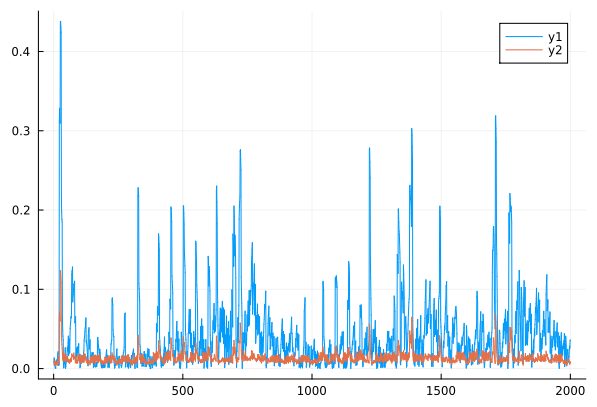
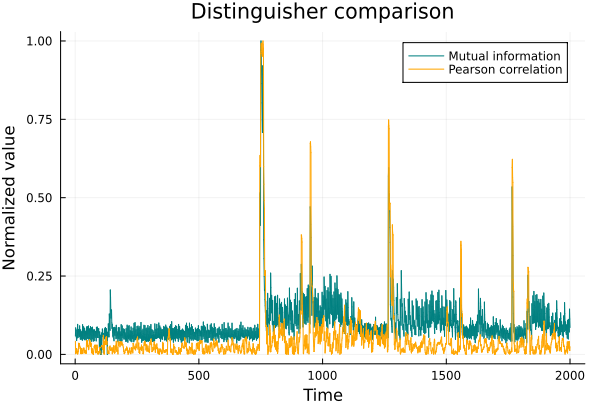
Adding analysis HW and graphs modification in report

Changed region(s): [[0.0, 0.0296, 1.0, 1.0], [0.6712, 0.0296, 0.9763, 0.2074], [0.3051, 0.0, 0.7627, 0.0593]]

diff --git a/Rapport/rapport.tex b/Rapport/rapport.tex
@@ -193,8 +193,8 @@
 	
 	\begin{figure}[h]
 		\centering
-		\includegraphics[scale=0.3]{horizontal_one_byte}
-		\caption{Graph of the mutual information between the power consumption and the Hamming weight of the first byte of $S_4$ in blue and its value in orange, as a function of time}
+		\includegraphics[scale=0.4]{horizontal_one_byte}
+		\caption{Mutual information between the power consumption and the Hamming weight or the value of the first byte of $S_4$}
 		\label{hHW&val}
 	\end{figure}
 	
@@ -202,15 +202,15 @@
 	
 	\begin{figure}[h]
 		\centering
-		\includegraphics[scale=0.3]{hHW_8_bytes_zoom}
-		\caption{Mutual information between power consumption and Hamming weight of each of the 8 bytes as functions of time}
+		\includegraphics[scale=0.4]{hHW_8_bytes_zoom}
+		\caption{Mutual information between power consumption and Hamming weight of each of the 8 bytes}
 		\label{hHW8_zoom}
 	\end{figure}
 	
 	\begin{figure}[h]
 		\centering
-		\includegraphics[scale=0.3]{comp_ref_hHW}
-		\caption{Mutual information between power consumption and horizontal Hamming Weight on the reference implementation in blue and on our own in orange}
+		\includegraphics[scale=0.4]{comp_ref_hHW}
+		\caption{Mutual information between power consumption and horizontal Hamming Weight on the reference implementation and on our own}
 		\label{compref}
 	\end{figure}
 	
@@ -218,8 +218,8 @@
 	
 	\begin{figure}[H]
 		\centering
-		\includegraphics[scale=0.3]{corr_vs_MI_hHW}
-		\caption{Mutual information (in orange) and absolute Pearson correlation (in blue) for a horizontal attack on the reference implementation}
+		\includegraphics[scale=0.4]{corr_vs_MI_hHW}
+		\caption{Normalized mutual information and absolute Pearson correlation for a horizontal attack on the reference implementation}
 		\label{corvsMI}
 	\end{figure}
 	
@@ -230,26 +230,26 @@
 	
 	\begin{figure}[h]
 		\centering
-		\includegraphics[scale=0.3]{vertical_one_bit}
-		\caption{Mutual information between power consumption and Hamming weight of the concatenation of the first bit of each of the word of $S$ in orange and its value in blue}
+		\includegraphics[scale=0.4]{vertical_one_bit}
+		\caption{Mutual information between power consumption and Hamming weight of the concatenation of the first bit of each of the word of $S$ and its value}
 		\label{vHW}
 	\end{figure}
 	
-	\begin{figure}[h]
-		\centering
-		\includegraphics[scale=0.3]{vertical_one_byte}
-		\caption{Same thing as \ref{vHW} but for random nonces ith Hamming weight in blue and value in orange}
-		\label{vHW&val}
-	\end{figure}
+	%		\begin{figure}[h]
+		%			\centering
+		%			\includegraphics[scale=0.3]{vertical_one_byte}
+		%			\caption{Same thing as \ref{vHW} but for random nonces ith Hamming weight in blue and value in orange}
+		%			\label{vHW&val}
+		%		\end{figure}
 	
-	From the graph \ref{vHW}, it seems that there are also vertical leaks, which are clearer in Hamming weight than in value. Furthermore, the graph \ref{vHW&val} also illustrates the leaks, which are obviously more noisy with variable nonces.
+	From the graph \ref{vHW}, it seems that there are also vertical leaks, which are clearer in Hamming weight than in value. Furthermore, studying variable nonces also illustrates the leaks, which are however logically more noisy with variable nonces.
 	
 	Finally, let's compare horizontal and vertical leaks with graph \ref{hvval}. Counterintuitively, horizontal and vertical points of interest seem to coincide, which refutes the hypothesis that there first is a leak because of the computation then a next one because of writing in the register. A possible explanation would be that the mutual information is induced by the value of the bit that is both there horizontally and vertically, which could explain why correlations and mutual information are so low. However the vertical leaks seem to be clearer, which seems to indicate that the computation leaks a lot, and it gives the attacker a clearer theoretical attack path. Furthermore, the chosen distinguisher for the following analysis will be the mutual information, which looks slightly clearer.
 	
 	\begin{figure}[h]
 		\centering
-		\includegraphics[scale=0.3]{h_and_v_one_byte}
-		\caption{Mutual information for the horizontal value in orange and the vertical value in blue}
+		\includegraphics[scale=0.4]{h_and_v_one_byte}
+		\caption{Normalized mutual information for the horizontal and vertical Hamming weight}
 		\label{hvval}
 	\end{figure}
 	
@@ -321,15 +321,15 @@
 	
 	\begin{figure}[h]
 		\centering
-		\includegraphics[scale=0.3]{nonces_half_fixed}
-		\caption{Mutual information between the Hamming weight of the outputs and the power consumption, for each of the possible outputs for the first nonce with half of its bits fixed to use the equations}
+		\includegraphics[scale=0.4]{nonces_half_fixed}
+		\caption{Mutual information between the Hamming weight of the outputs (associated key in the legend) and the power consumption, for each of the possible outputs for the first nonce with half of its bits fixed to use the equations}
 		\label{half_fixed}
 	\end{figure}
 	
 	\begin{figure}[h]
 		\centering
-		\includegraphics[scale=0.3]{nonces_alea}
-		\caption{Mutual information between the Hamming weight of the outputs and the power consumption, for each of the possible outputs for the first nonce with all its bits random}
+		\includegraphics[scale=0.4]{nonces_alea}
+		\caption{Mutual information between the Hamming weight of the outputs and the power consumption, for each of the possible outputs (with the associated key in the legend) for the first nonce with all its bits random}
 		\label{all_alea}
 	\end{figure}
 	

diff --git a/Rapport/journaldebord.tex b/Rapport/journaldebord.tex
@@ -46,13 +46,15 @@
 		\item[\done] Implémentation d'une attaque CPA classique verticale
 		\item[\done] Modifier ces 2 attaques précédentes pour qu'elles suivent les articles lus
 		\item Corriger les attaques supposées fonctionner
-		\item Regarder si l'attaque qui ne fonctionne pas ne fonctionnerait quand-même pas un peu
+		\item[\done] Regarder si l'attaque qui ne fonctionne pas ne fonctionnerait quand-même pas un peu
 		\item[\done] Comparer les fuites verticales et horizontales pour déterminer ce qui fuit le plus dans une S-Box
 		\item[\done] Refaire ces attaques sur l'implémentation de référence pour comparer les différences de fuite par rapport aux différences d'implémentation
 		\item[\done] Réfléchir à un nouveau chemin d'attaque pour les équations de Modou, suivant les équations et ce qui fuite bien
-		\item Réaliser ce chemin d'attaque
-		\item Rédaction du rapport
-		\item Préparation de la présentation
+		\item[\done] Réaliser ce chemin d'attaque
+		\item[\done] Rédaction du rapport
+		\item[\done] Préparation de la présentation
+		\item Corriger rapport et présentation selon les recommendations
+		\item Trouver des idées de raison pour laquelle la clé fuite mal
 		\item Implémenter Ascon protégé
 		\item Essayer d'attaquer de même Ascon protégé
 	\end{todolist}
@@ -992,12 +994,41 @@
 	
 	\subsection{Objectifs de la séance prochaine}
 	\begin{todolist}
-		\item Trouver une idée de quoi en faire maintenant qu'on sait que le poids de Hamming fuit bien
-		\item Relire à tête reposée l'attaque DPA, une dernière fois
+		\item[\done] Trouver une idée de quoi en faire maintenant qu'on sait que le poids de Hamming fuit bien
+		\item[\done] Réessayer l'expérience des HW, sauf que cette fois on ne choisit pas d'antécédent particulier, juste on regarde ce qui pique le mieux entre des HW aléatoiers et les vrais
+		\item[\done] Relire à tête reposée l'attaque DPA, une dernière fois
+		\item[\done] Refaire les graphes avec un légende (si possible plus clairs)
+		\item Répondre au mail pour la présentation
+	\end{todolist}
+	
+	
+	\section{Séance 29 : 1/07/2025}
+	\subsection{Notes de séance}
+	Maintenant qu'on sait que le poids de Hamming fuit bien, on arrive à la conclusion que si on prend une mauvaise hypothèse, puisque la s-box est suppozée avoir un comportement aléatoire, alors le HW de sortie est random et ne devrait pas piquer. En revanche, si c'est le bon Hamming Weight, ça ne devrait pas piquer.
+	
+	\noindent \textbf{Observatins :} De manière très intéressante, on voit bien qu'il y a des points d'intérêts si ce sont les bons HW et il n'y en a pas si ce sont des HW aléatoires. De plus, tous les HW d'un même octet ont des points d'intérêts simultanés, mais pour plusieurs octets, c'est sucessif. Est-ce que tous lse calculs verticaux d'un même octet sont simultanés ? Lorsqu'on a des clés et nonces parfaitement aléatoires, on peut distinguer les vrais sorties de sorties aléatoires grâce à leu poids de Hamming.
+	
+	\noindent Assez étonnament, quand c'est la clé qu'on fait varier, l'hypothèse fausse est très proche derrière...
+	
+	\subsection{Résumé de séance}
+	\begin{itemize}
+		\item Différents exemples pour comparer des faux poids de Hamming avec les vrais
+		\item Maintenant comparer les vrais poids de Hamming pour les fausses clés : i.e. comme avant pour deux clés et on regarde la corrélation avec la bonne clé ou avec la mauvaise
+	\end{itemize}
+	
+	\subsection{Objectifs de la séance prochaine}
+	\begin{todolist}
+		\item[\done] Refaire les graphes
+		\item Répondre au mail
+		\item Corriger la présentation
+		\item Réfléchir à pourquoi la fausse clé donne une bonne corrélation : la s-box devrait disperser
 	\end{todolist}
 	
 	
 	\section{Questions pour l'entretien hebdomadaire}
+	\begin{itemize}
+		\item Comment ça se fait que pour des faux HW, on est une IM négligeable, mais que pour des fausses clés, supposées donc donner des HW aléatoires par hypothèse crypto, on ait une corrélation ?
+	\end{itemize}
 	
 	
 	

diff --git a/Analyse_attaques/traces_varkeys.py b/Analyse_attaques/traces_varkeys.py
@@ -1,0 +1,70 @@
+import chipwhisperer as cw
+import matplotlib.pyplot as plt
+import numpy as np
+from tqdm import tqdm
+import time
+
+scope = cw.scope()
+
+scope.default_setup()
+scope.adc.samples = 2000
+
+target = cw.target(scope)
+
+ktp = cw.ktp.Basic()
+key, pt = ktp.new_pair()
+nonce = ktp.next_text()
+ad = ktp.next_text()
+
+target.simpleserial_write('k',key)
+target.simpleserial_wait_ack()
+target.simpleserial_write('a',ad)
+target.simpleserial_wait_ack()
+target.simpleserial_write('n',nonce)
+target.simpleserial_wait_ack()
+
+nonces = []
+traces = []
+pts = []
+cts = []
+keys =[]
+
+for i in tqdm(range(10000)):
+
+    pt = ktp.next_text()
+    if i==5000 :
+        key = ktp.next_text()
+    nonce = ktp.next_text()
+    ad = ktp.next_text()
+
+    target.simpleserial_write('k',key)
+    target.simpleserial_wait_ack()
+    target.simpleserial_write('a',ad)
+    target.simpleserial_wait_ack()
+    target.simpleserial_write('n',nonce)
+    target.simpleserial_wait_ack()
+
+    trace = cw.capture_trace(scope,target,pt, key)
+    traces.append(trace.wave)
+    nonces.append(nonce)
+    pts.append(trace.textin)
+    cts.append(trace.textout)
+    keys.append(trace.key)
+
+nptraces = np.asarray(traces)
+np.save("Mesures_tousHW/traces.npy", nptraces)
+
+nppts = np.asarray(pts)
+np.save("Mesures_tousHW/pts.npy", nppts)
+
+npcts = np.asarray(cts)
+np.save("Mesures_tousHW/cts.npy", npcts)
+
+npnonces = np.asarray(nonces)
+np.save("Mesures_tousHW/nonces.npy", npnonces)
+
+npkeys = np.asarray(keys)
+np.save("Mesures_tousHW/keys.npy", npkeys)
+
+plt.plot(traces[0])
+plt.show()

diff --git a/Rapport/presentation.tex b/Rapport/presentation.tex
@@ -48,7 +48,7 @@
 
 \institute{IMT Atlantique}
 
-\title{Side-channel attacks on Ascon to find the leak in the S-box}
+\title{Side-channel attacks on Ascon's S-box}
 
 \date{2025}
 
